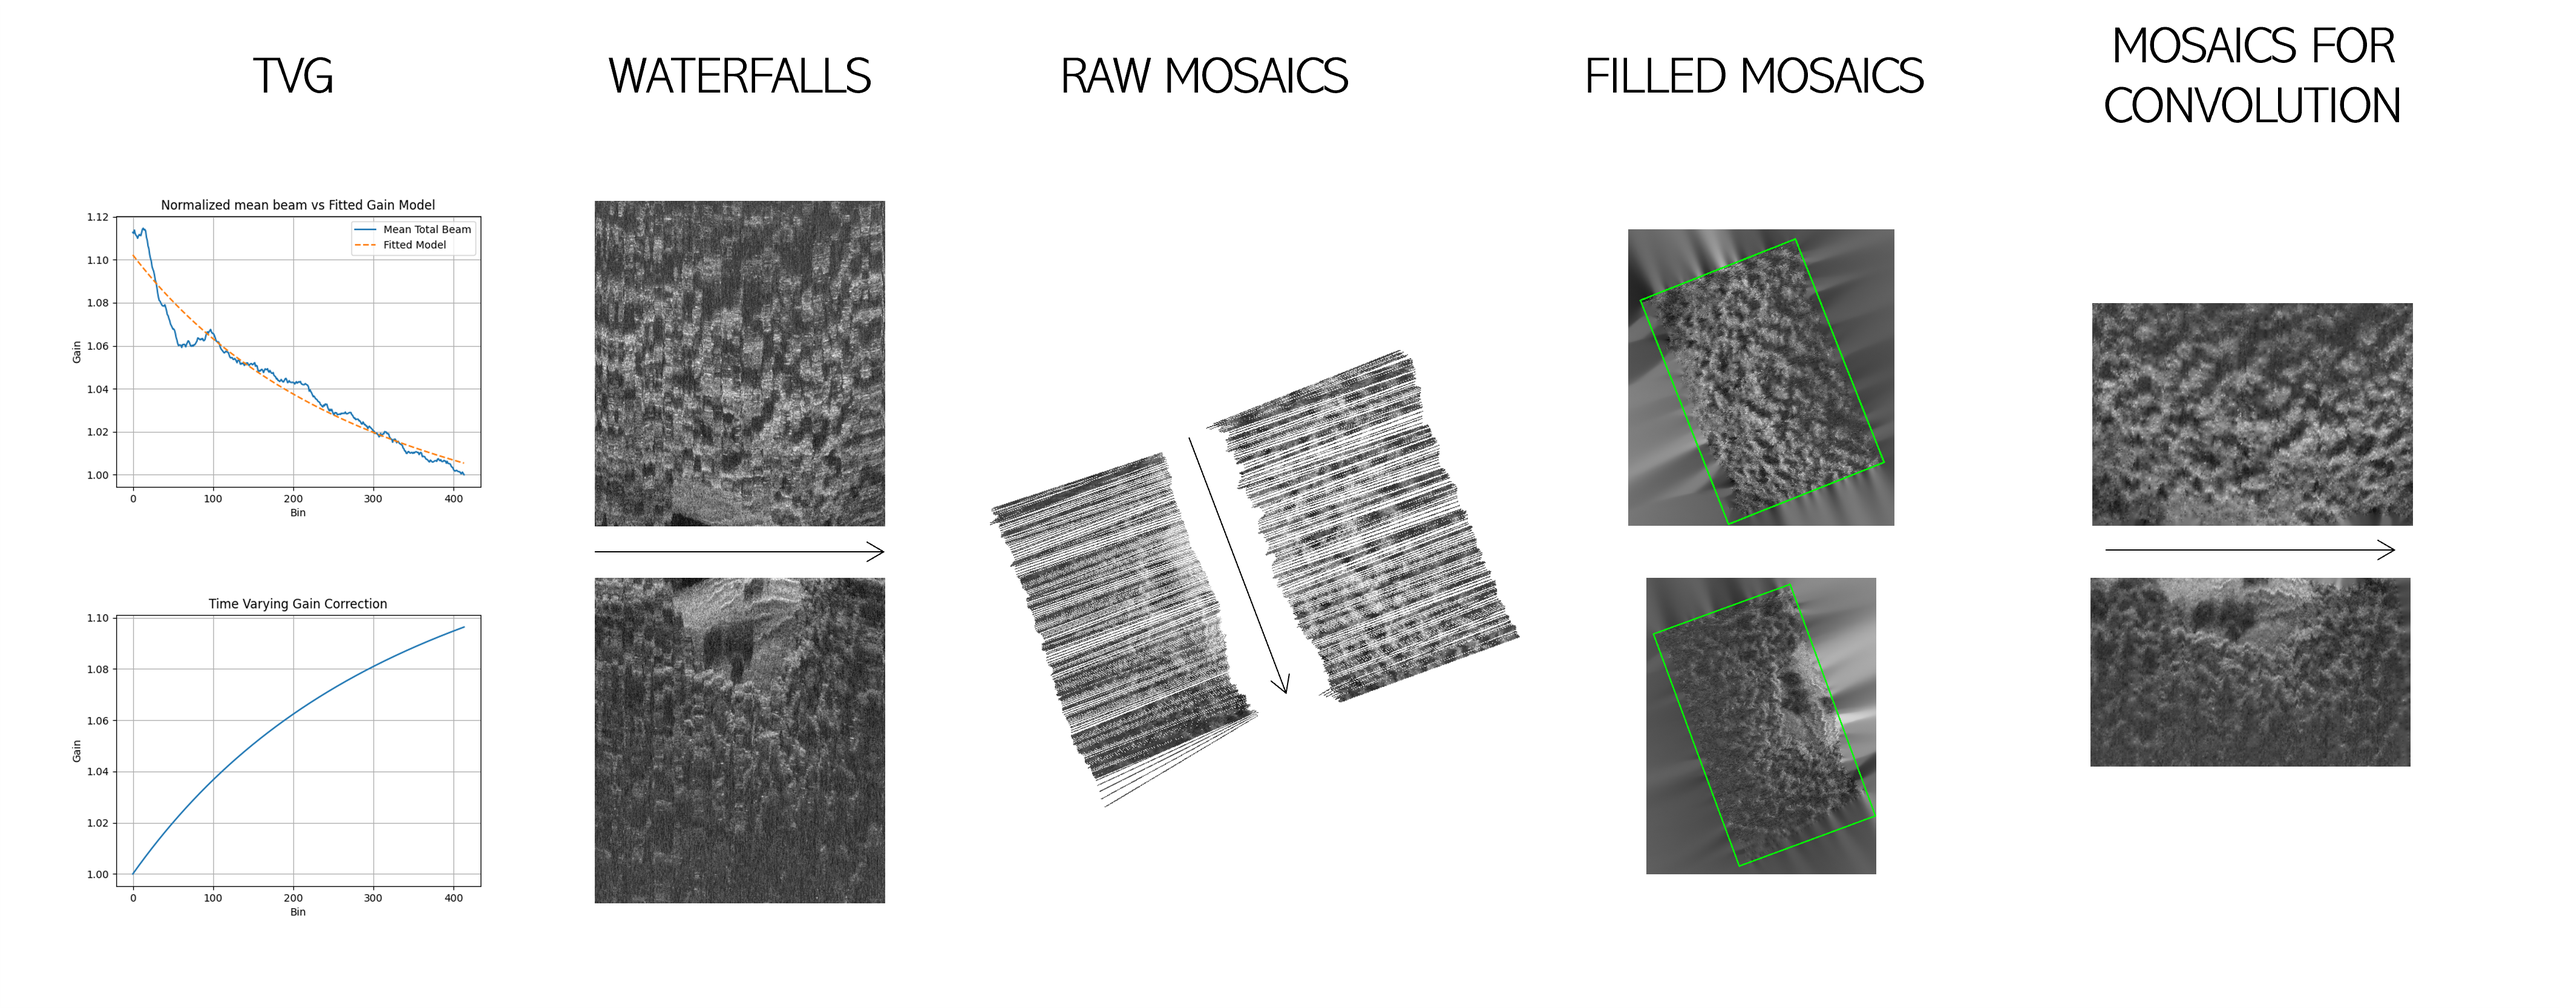
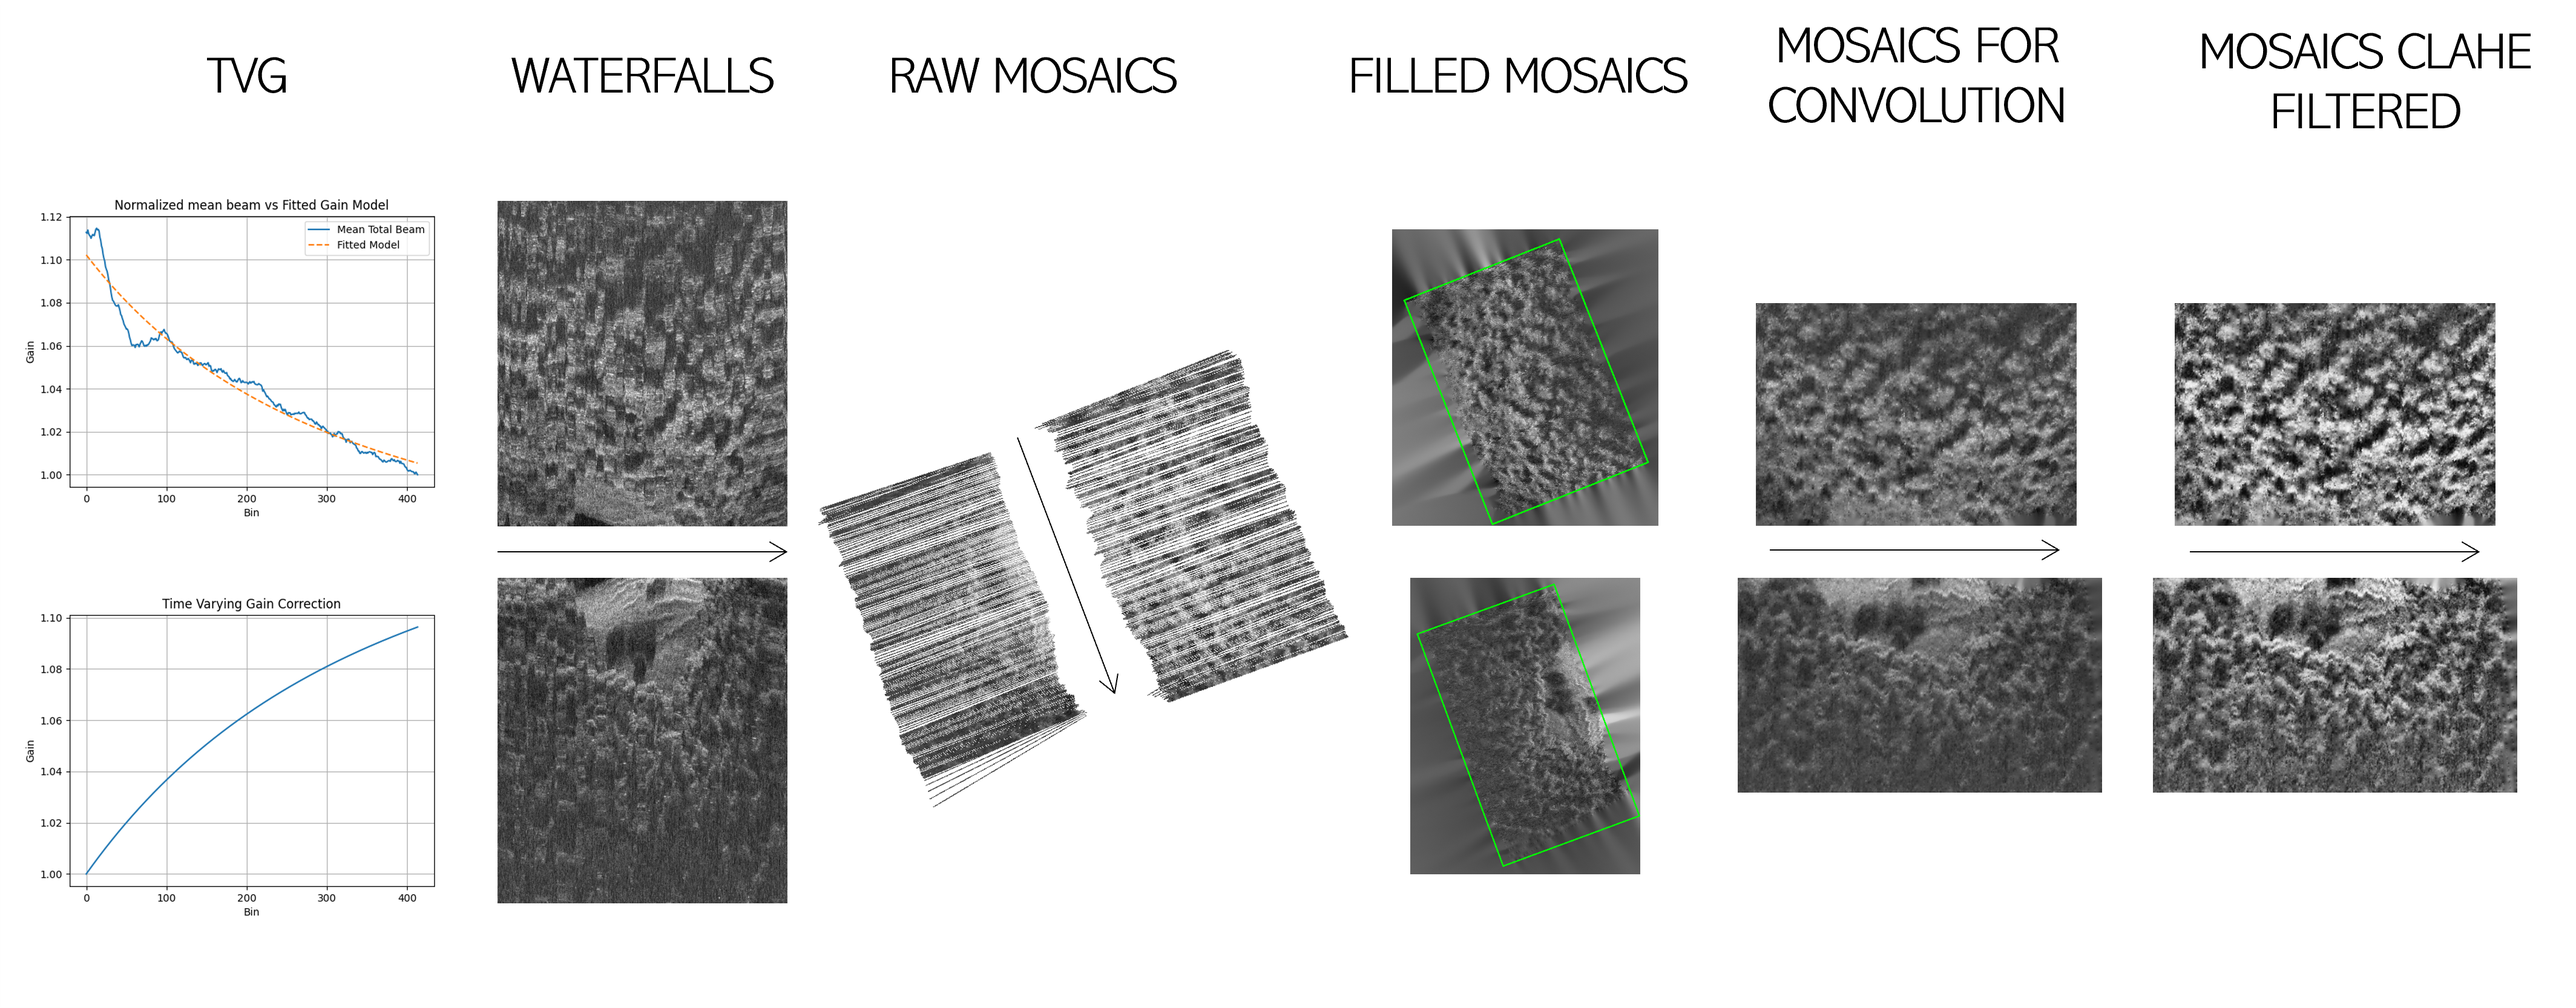
Added step for CLAHE contrast enhancement

diff --git a/side_scan_sonar_pipeline/pipeline.py b/side_scan_sonar_pipeline/pipeline.py
@@ -536,6 +536,12 @@ class SideScanSonarPipeline:
         os.makedirs(output_filled_rect_folder_path, exist_ok=True)
         self.logger.info("Creating folder for filled rectangle mosaics at {}".format(output_filled_rect_folder_path))
 
+        output_clahe_folder_path = self.config.get('output_clahe_mosaics_folder')
+        if not output_clahe_folder_path:
+            raise ValueError("Output CLAHE mosaic folder path must be specified in the configuration file.")
+        os.makedirs(output_clahe_folder_path, exist_ok=True)
+        self.logger.info("Creating folder for CLAHE mosaics at {}".format(output_clahe_folder_path))
+
         # Iterate over transect folders in localized measures folder
         localized_measures_folder = self.config.get('output_localized_measures_folder')
         if not localized_measures_folder:
@@ -684,8 +690,16 @@ class SideScanSonarPipeline:
             cv2.imwrite(os.path.join(output_cleaned_folder_path, f"transect_{transect}_right_cropped.png"), cropped_right)
             cv2.imwrite(os.path.join(output_cleaned_folder_path, f"transect_{transect}_left_cropped.png"), cropped_left)
 
+            # Apply CLAHE to the mosaics
 
+            clahe = cv2.createCLAHE(clipLimit=self.config.get('clahe_clip_limit'), tileGridSize=tuple(self.config.get('clahe_tile_grid_size')))
 
+            right_mosaic_clahe = clahe.apply(cv2.cvtColor(cropped_right, cv2.COLOR_BGRA2GRAY))
+            left_mosaic_clahe = clahe.apply(cv2.cvtColor(cropped_left, cv2.COLOR_BGRA2GRAY))
+
+            # Save the CLAHE mosaics
+            cv2.imwrite(os.path.join(output_clahe_folder_path, f"transect_{transect}_right_clahe.png"), right_mosaic_clahe)
+            cv2.imwrite(os.path.join(output_clahe_folder_path, f"transect_{transect}_left_clahe.png"), left_mosaic_clahe)
 
     def run(self):
         """

diff --git a/README.md b/README.md
@@ -37,6 +37,9 @@ Several types of outputs are generated during the pipeline execution:
 - **Clean Mosaics for Convolution**:  
   Filled mosaics are rotated and cropped to produce square, convolution-ready images. These are stored in `output_clean_mosaics_folder`.
 
+- **CLAHE Mosaics for Convolution**:  
+  The convolution-ready mosaics are filtered with CLAHE algorithm to enhance contrast. These are stored in `output_clahe_mosaics_folder`.
+
 
 ## Requirements
 
